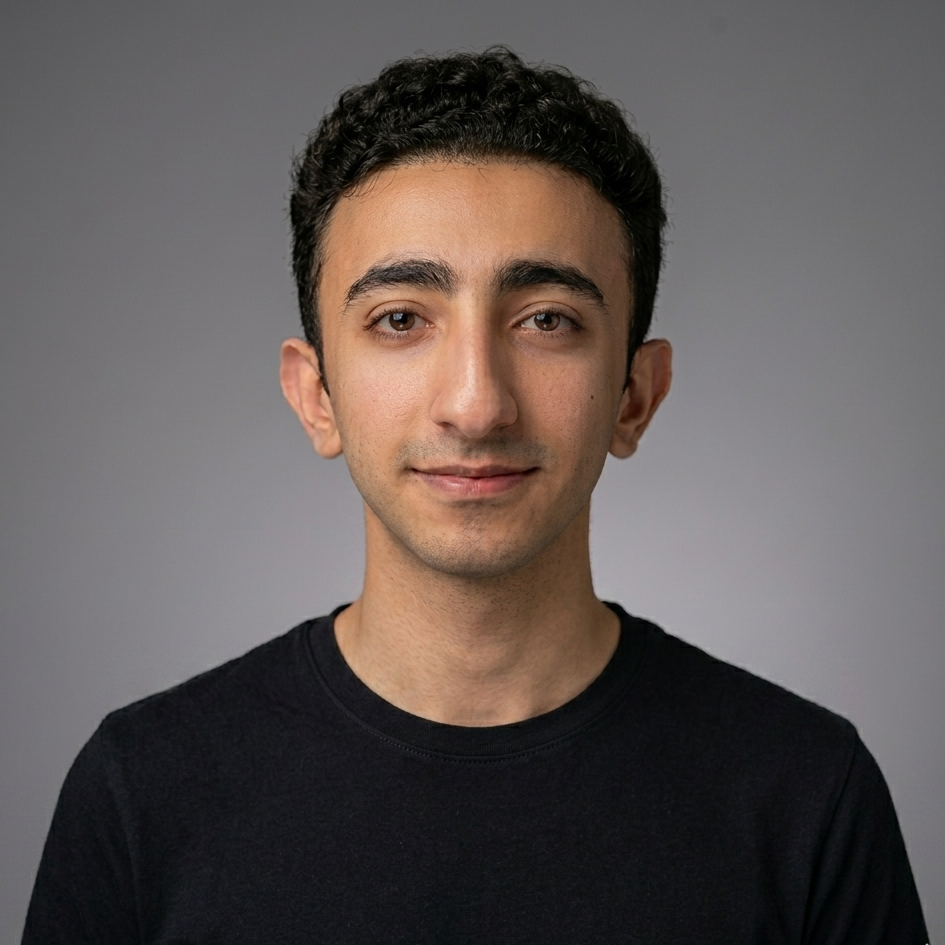
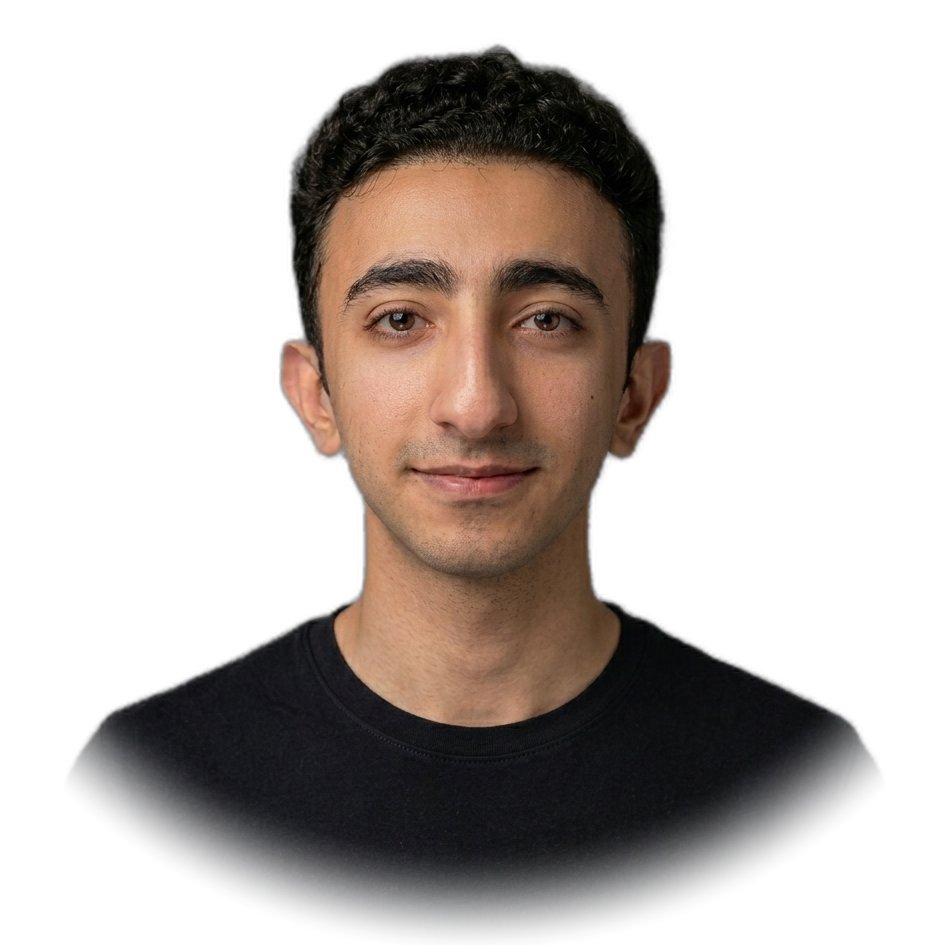
edit personal photo

diff --git a/style.css b/style.css
@@ -29,8 +29,12 @@
   --max-w: 1280px;
   --ease: cubic-bezier(0.22, 1, 0.36, 1);
   --grid-color: rgba(255, 255, 255, 0.06);
+  --profile-backlight: radial-gradient(ellipse 60% 50% at 50% 46%, rgba(255, 255, 255, 0.55) 0%, rgba(255, 255, 255, 0.28) 30%, rgba(255, 255, 255, 0.09) 55%, rgba(255, 255, 255, 0.015) 75%, transparent 88%);
+  --profile-glow-filter: blur(24px);
+  --profile-glow-opacity: 0.95;
 }
-body[data-theme="light"] {
+body[data-theme="light"],
+[data-theme="light"] {
   --bg: #fafafa;
   --bg-elevated: #f0f0f0;
   --text: #0a0a0a;
@@ -48,6 +52,9 @@ body[data-theme="light"] {
   --shadow: 0 24px 64px rgba(0, 0, 0, 0.1);
   --shadow-glow: 0 0 40px rgba(0, 0, 0, 0.06);
   --grid-color: rgba(0, 0, 0, 0.07);
+  --profile-backlight: radial-gradient(ellipse 60% 50% at 50% 46%, rgba(0, 0, 0, 0.36) 0%, rgba(0, 0, 0, 0.18) 30%, rgba(0, 0, 0, 0.06) 55%, rgba(0, 0, 0, 0.01) 75%, transparent 88%);
+  --profile-glow-filter: blur(26px);
+  --profile-glow-opacity: 0.88;
 }
 *,
 *::before,
@@ -787,24 +794,56 @@ body[data-theme="light"] .nav-view-cv {
 .profile-pic {
   display: flex;
   justify-content: center;
-  transition: transform 0.15s ease-out;
-  transform-style: preserve-3d;
-}
-.profile-ring {
+  align-items: center;
   position: relative;
-  width: min(370px, 100%);
-  aspect-ratio: 1;
-  border-radius: 50%;
+  transition: transform 0.25s var(--ease);
   transform-style: preserve-3d;
 }
-
-.profile-ring img {
+.profile-ring,
+.profile-frame {
+  position: relative;
+  width: min(385px, 100%);
+  aspect-ratio: 1;
+  display: flex;
+  align-items: center;
+  justify-content: center;
+  transform-style: preserve-3d;
+}
+.profile-glow {
+  position: absolute;
+  top: 4%;
+  left: 50%;
+  transform: translateX(-50%);
+  width: 126%;
+  height: 118%;
+  border-radius: 50%;
+  background: var(--profile-backlight);
+  filter: var(--profile-glow-filter);
+  opacity: var(--profile-glow-opacity);
+  pointer-events: none;
+  z-index: 1;
+  transition: background 0.4s ease, filter 0.4s ease, opacity 0.4s ease, transform 0.4s var(--ease);
+}
+.profile-ring img,
+.profile-img {
+  position: relative;
+  z-index: 2;
   width: 100%;
   height: 100%;
-  object-fit: cover;
-  border-radius: 50%;
+  object-fit: contain;
+  border-radius: 0;
   border: none;
-  transform: translateZ(15px);
+  -webkit-mask-image: none;
+  mask-image: none;
+  transition: transform 0.35s var(--ease), filter 0.35s ease;
+  pointer-events: auto;
+}
+.profile-pic:hover .profile-img {
+  transform: translateZ(24px) scale(1.025) translateY(-4px);
+}
+.profile-pic:hover .profile-glow {
+  transform: translateX(-50%) scale(1.06);
+  opacity: 1;
 }
 /*
 === Floating Tech Badges (Removed as requested) ===

diff --git a/index.html b/index.html
@@ -23,7 +23,7 @@
       href="https://fonts.googleapis.com/css2?family=Plus+Jakarta+Sans:ital,wght@0,400;0,500;0,600;0,700;0,800&family=Space+Grotesk:wght@500;600;700&display=swap"
       rel="stylesheet"
     />
-    <link rel="stylesheet" href="style.css?v=2.2" />
+    <link rel="stylesheet" href="style.css?v=2.5" />
     <script src="https://code.iconify.design/iconify-icon/2.1.0/iconify-icon.min.js"></script>
   </head>
   <body id="top" data-theme="dark" class="is-loading">
@@ -265,10 +265,12 @@
           </div>
 
           <div class="profile-pic">
-            <div class="profile-ring" aria-label="Profile picture">
+            <div class="profile-ring profile-frame" aria-label="Profile picture">
+              <div class="profile-glow" aria-hidden="true"></div>
               <img
-                src="images/profile_pic.png"
+                src="images/profile_pic.png?v=2.2"
                 alt="Mostafa Mahmoud"
+                class="profile-img"
                 width="400"
                 height="400"
               />
